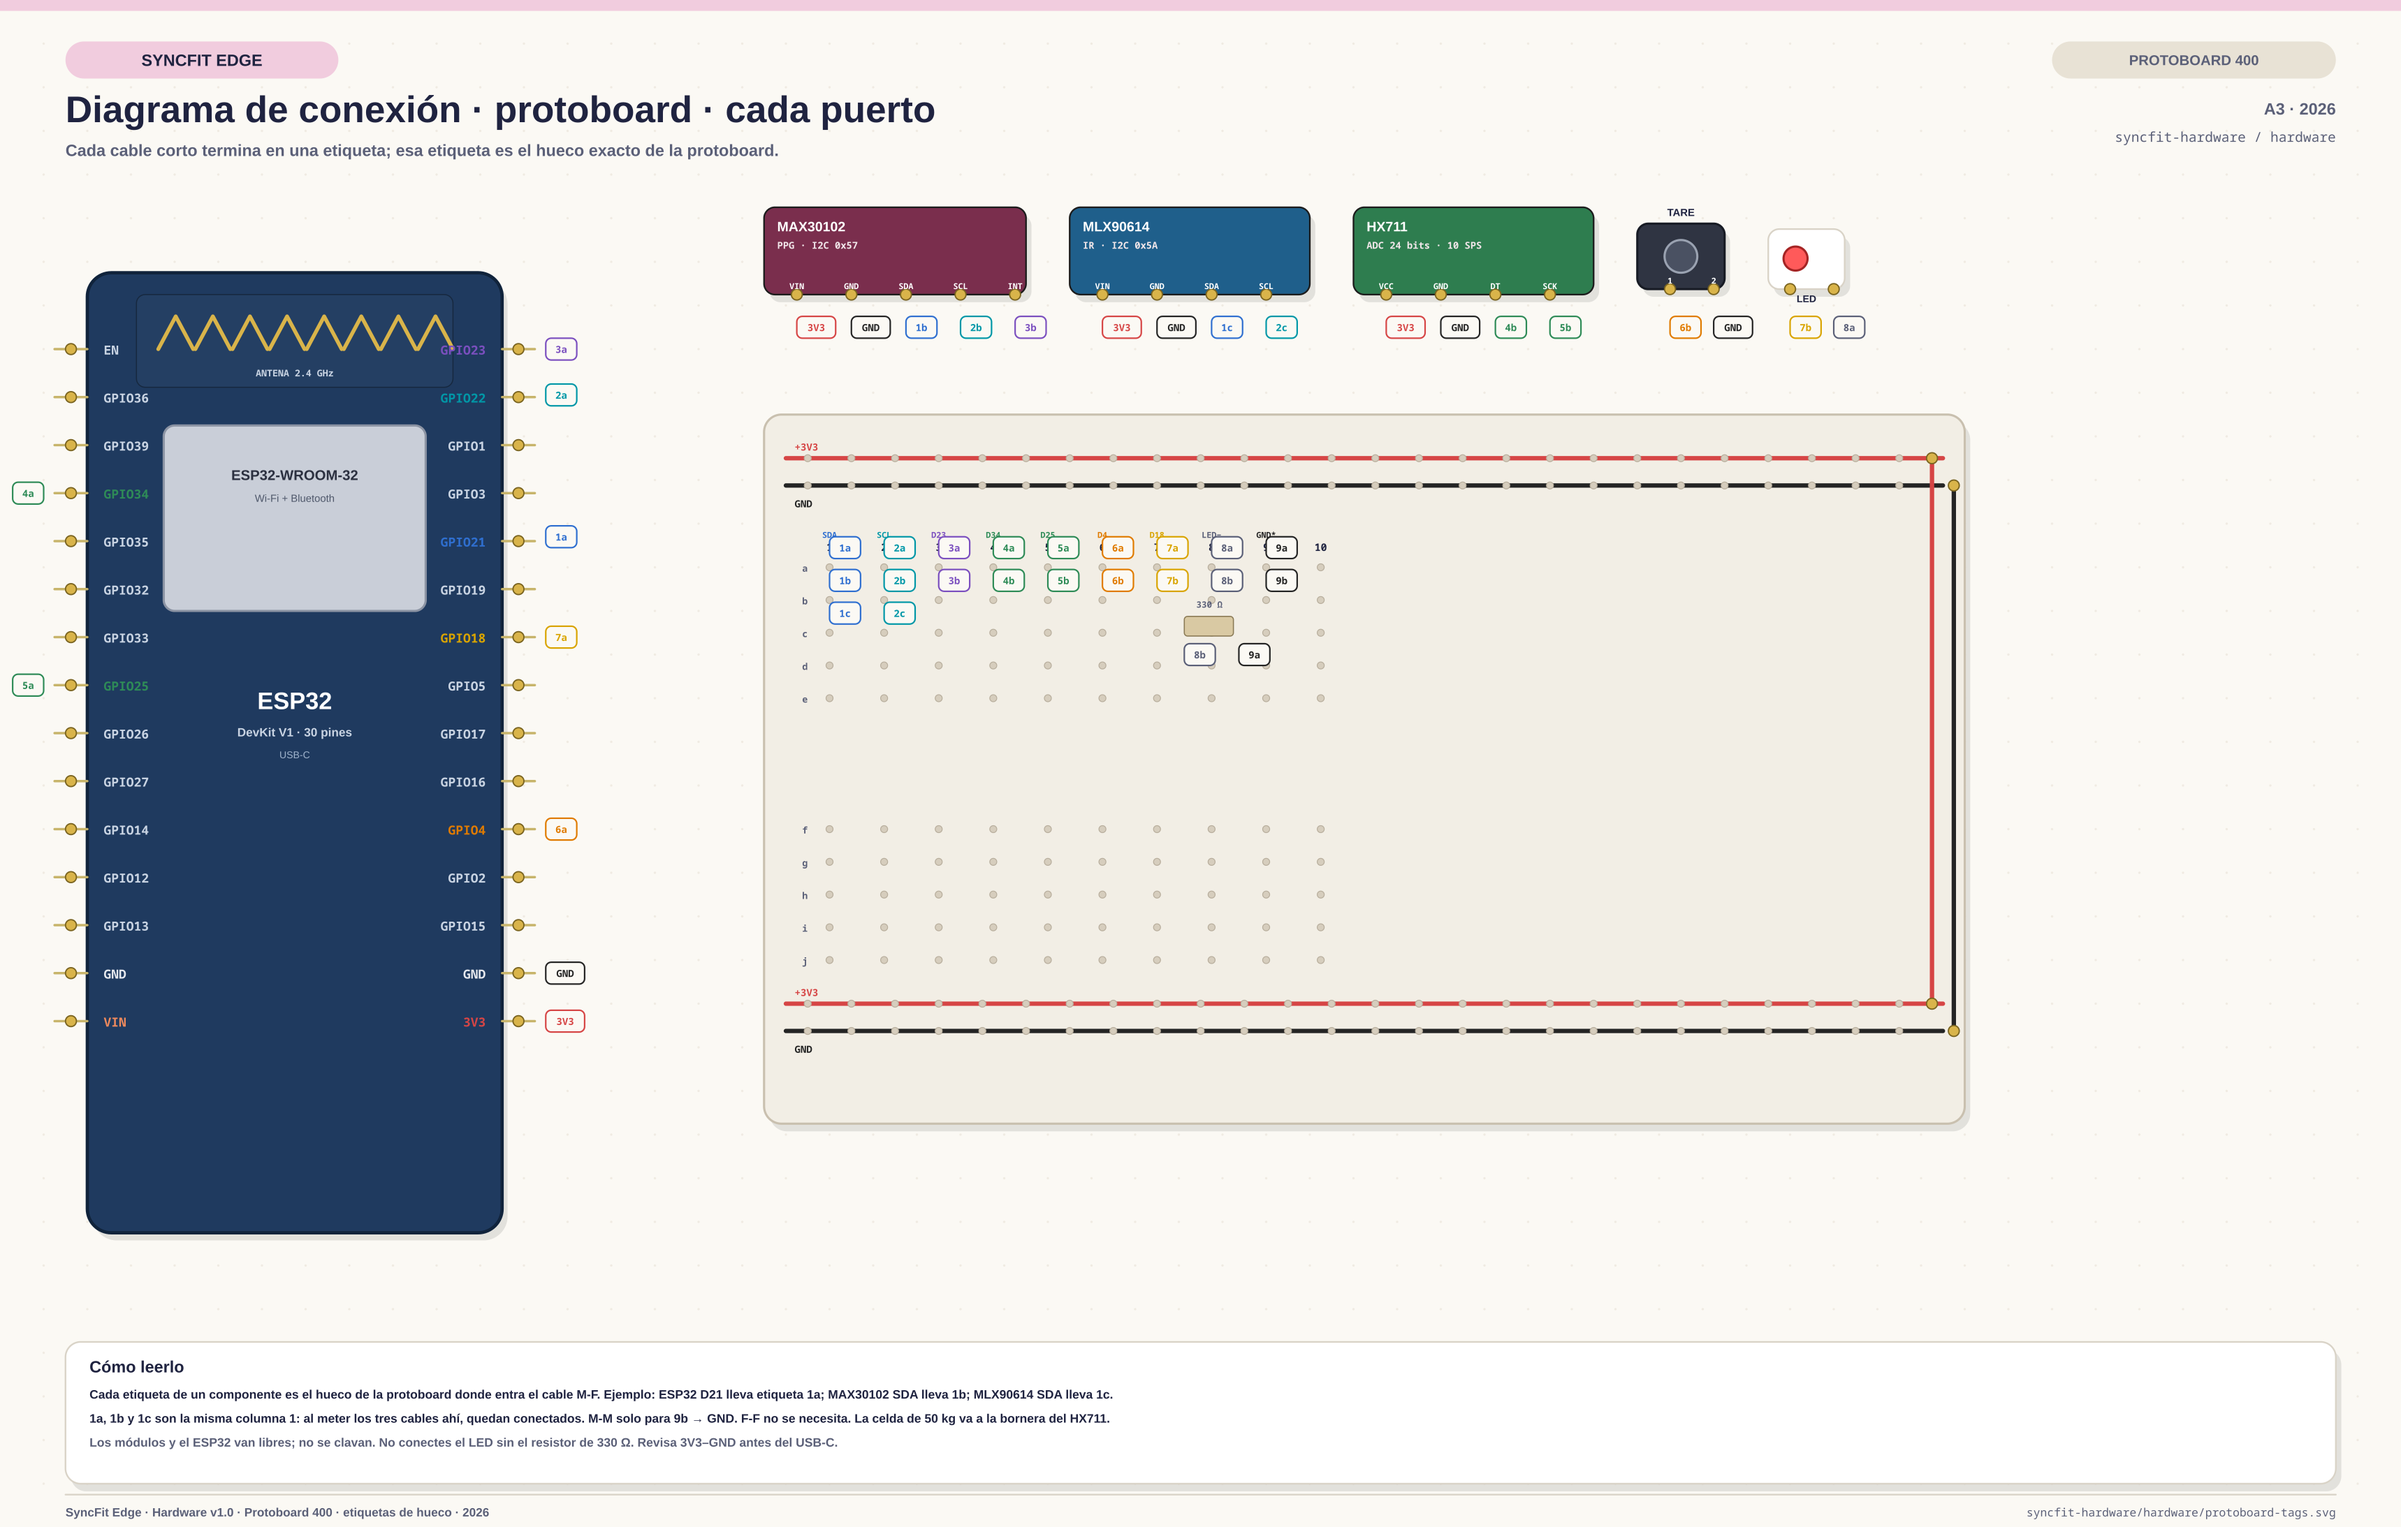
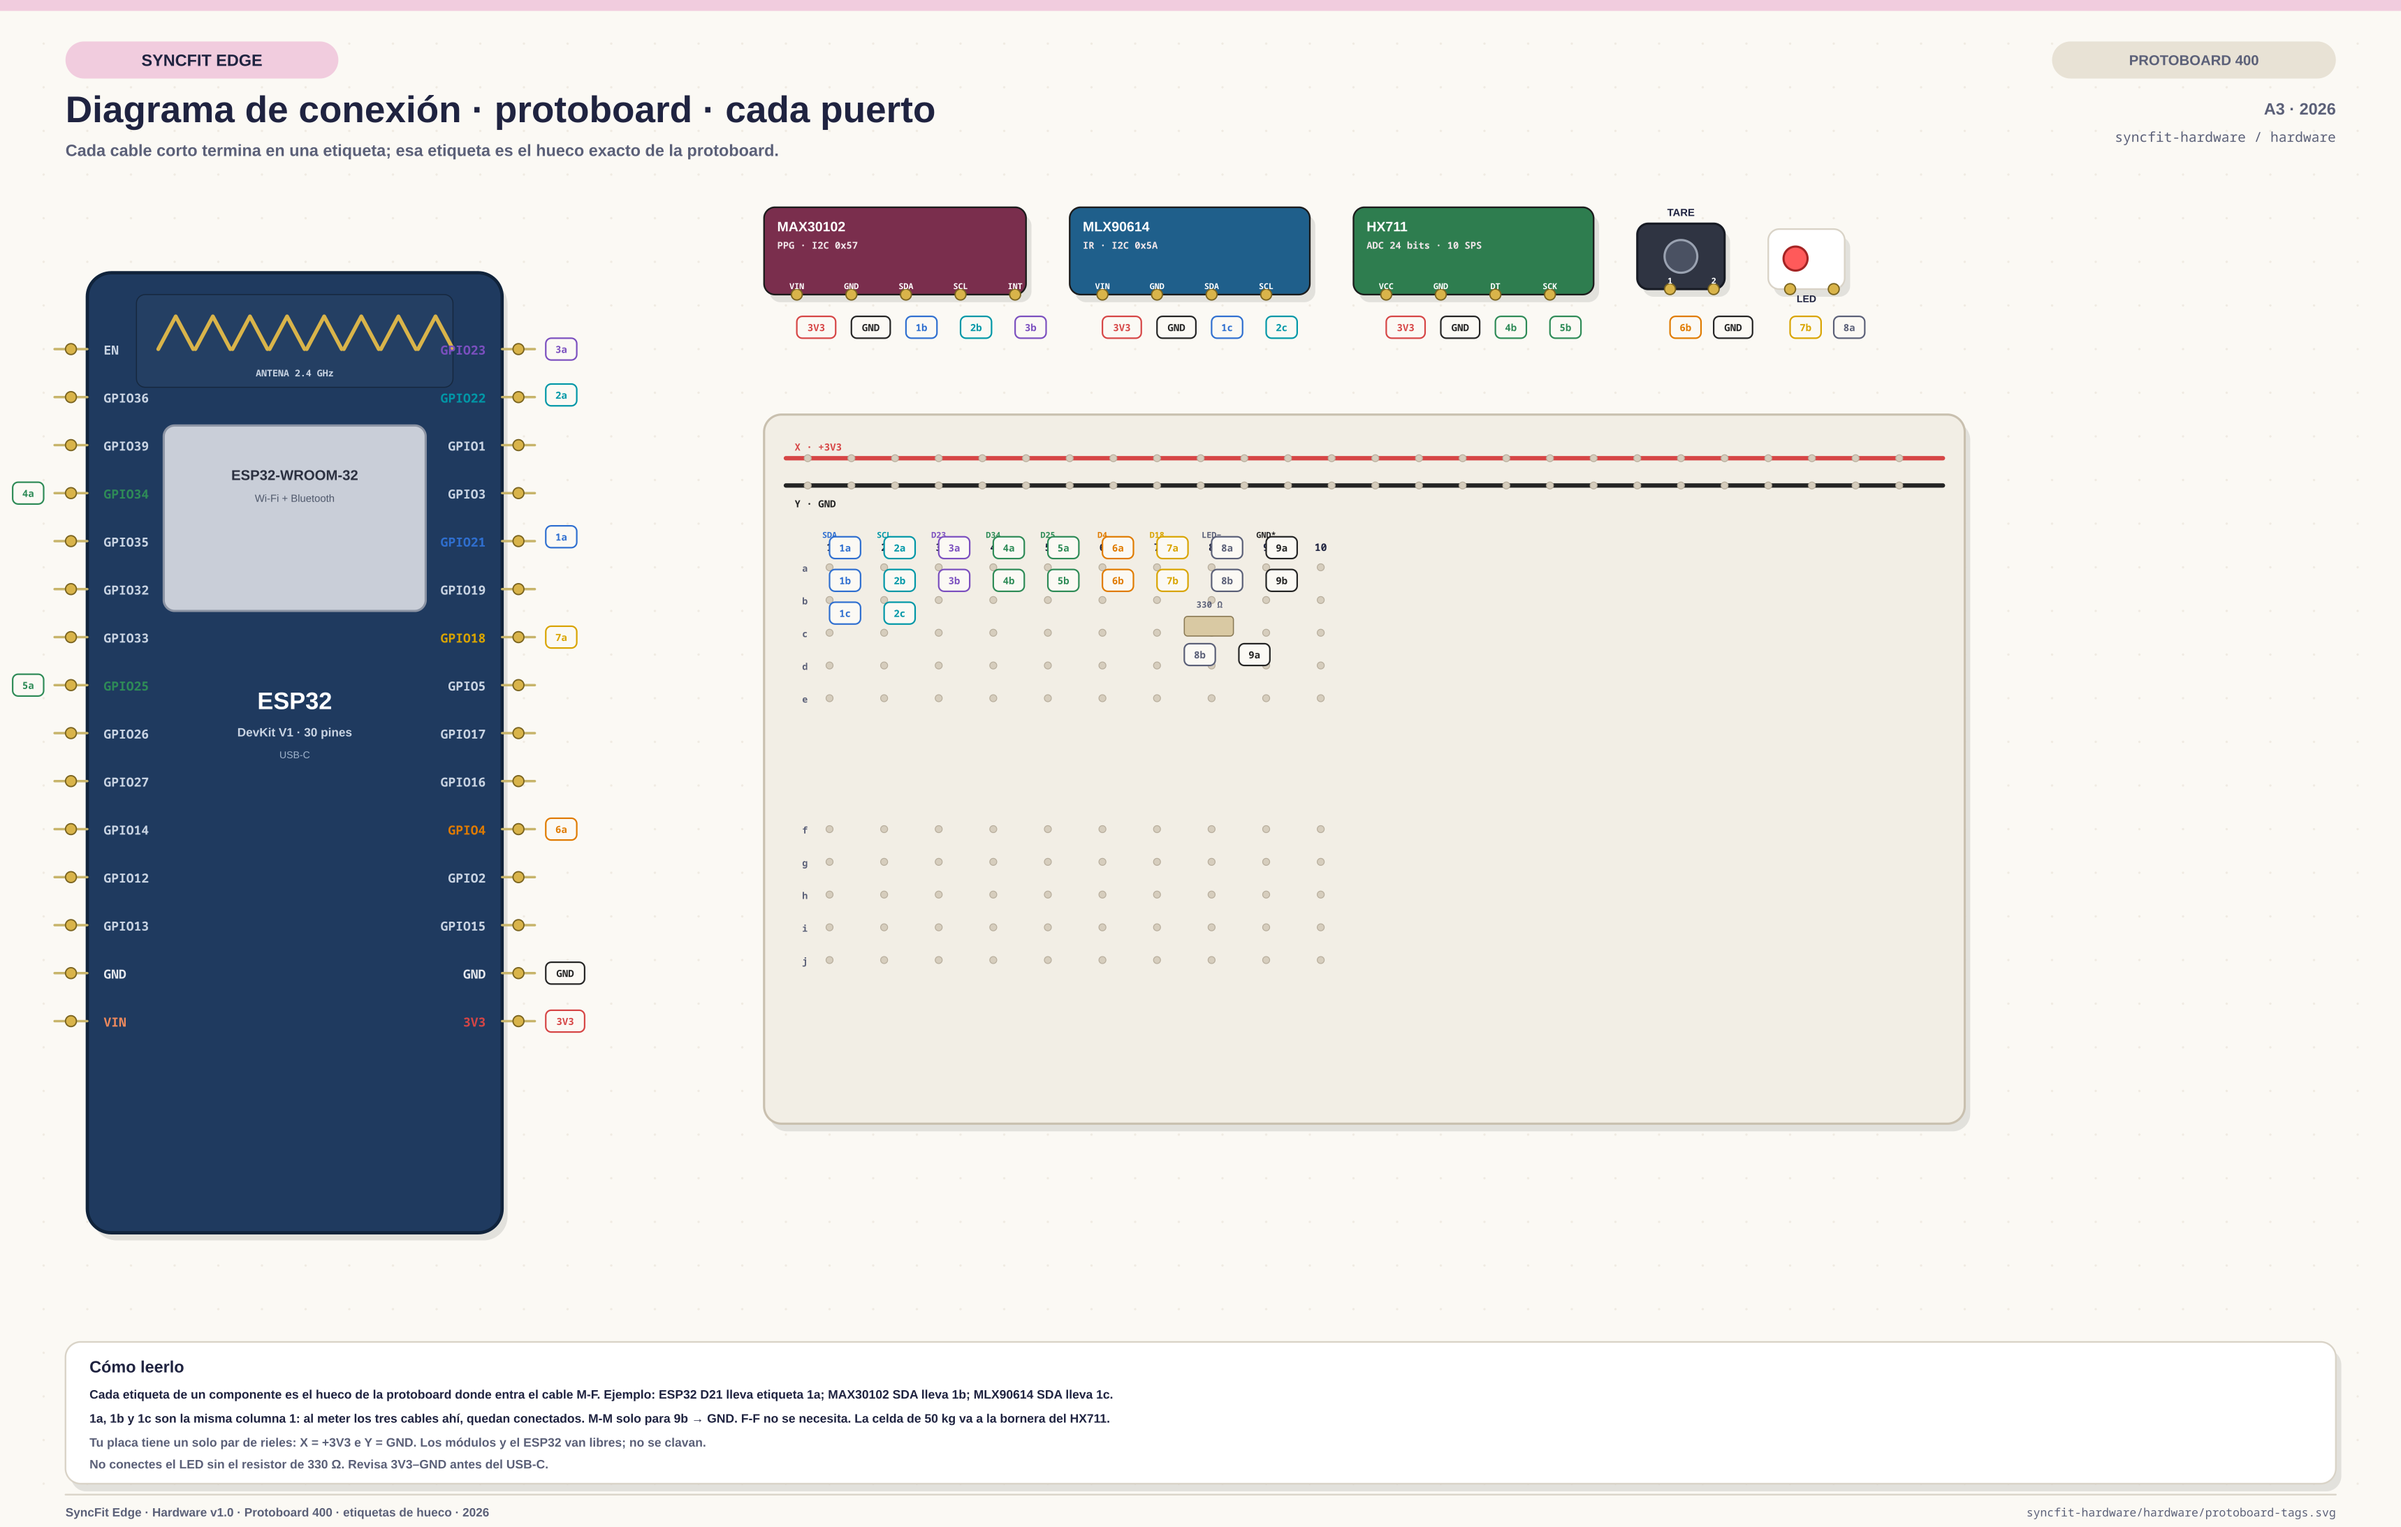
docs: adapt protoboard guide to X/Y power rails
The user's 400-point board has only one pair of power rails, X and Y. X is +3V3 and Y is GND; the tag diagram now shows only that pair.

Changed region(s): [[0.3113, 0.6529, 0.8094, 0.684], [0.0311, 0.9328, 0.3113, 0.9639]]

diff --git a/hardware/connection-map.md b/hardware/connection-map.md
@@ -26,9 +26,9 @@ That is why this map uses **one column per signal**:
 | **6** | `D4 / TARE` | ESP32 `D4` + button leg 1 |
 | **7** | `D18 / LED` | ESP32 `D18` + LED anode |
 | **8** | `LED−` | LED cathode + 330 Ω leg 1 |
-| **9** | `GND*` | 330 Ω leg 2 → M-M to the black `GND` rail |
-| **Red rail** | `+3V3` | ESP32 `3V3` + all module `VIN/VCC` |
-| **Black rail** | `GND` | ESP32 `GND` + all module `GND` + button leg 2 |
+| **9** | `GND*` | 330 Ω leg 2 → M-M to the `Y` rail (`GND`) |
+| **X rail** | `+3V3` | ESP32 `3V3` + all module `VIN/VCC` |
+| **Y rail** | `GND` | ESP32 `GND` + all module `GND` + button leg 2 |
 
 ### Exact hole assignment
 
@@ -57,7 +57,7 @@ above the center channel.
 | `8a` | LED cathode (−, short leg) | M-F or direct |
 | `8b` | 330 Ω leg 1 | direct |
 | `9a` | 330 Ω leg 2 | direct |
-| `9b` | black `GND` rail | M-M |
+| `9b` | `Y` rail (`GND`) | M-M |
 
 Use different holes of the same column for multiple wires. For example, column 1
 has three connections: put the ESP32 wire in hole `1a`, the MAX30102 wire in
@@ -65,7 +65,7 @@ has three connections: put the ESP32 wire in hole `1a`, the MAX30102 wire in
 breadboard; no M-M jumper is needed for that column.
 
 `GND*` in column 9 is the return from the 330 Ω resistor. Link column 9 to the
-black `GND` rail with an **M-M** jumper.
+`Y` rail (`GND`) with an **M-M** jumper.
 
 ## 2. ESP32 connections
 
@@ -74,8 +74,8 @@ into the breadboard.
 
 | ESP32 pin | Physical side | Connect to | Cable |
 |---|---|---|---|
-| `3V3` (pin 30) | right, bottom | red `+3V3` rail | M-F |
-| `GND` (pin 29) | right, bottom | black `GND` rail | M-F |
+| `3V3` (pin 30) | right, bottom | `X` rail (`+3V3`) | M-F |
+| `GND` (pin 29) | right, bottom | `Y` rail (`GND`) | M-F |
 | `D21` (pin 20) | right | breadboard **column 1** (`SDA`) | M-F |
 | `D22` (pin 17) | right | breadboard **column 2** (`SCL`) | M-F |
 | `D23` (pin 16) | right | breadboard **column 3** (`INT`) | M-F |
@@ -89,8 +89,8 @@ into the breadboard.
 
 | MAX30102 pin | Connect to | Cable |
 |---|---|---|
-| `VIN` | red `+3V3` rail | M-F |
-| `GND` | black `GND` rail | M-F |
+| `VIN` | `X` rail (`+3V3`) | M-F |
+| `GND` | `Y` rail (`GND`) | M-F |
 | `SDA` | breadboard **column 1** | M-F |
 | `SCL` | breadboard **column 2** | M-F |
 | `INT` | breadboard **column 3** | M-F |
@@ -99,8 +99,8 @@ into the breadboard.
 
 | MLX90614 pin | Connect to | Cable |
 |---|---|---|
-| `VIN` | red `+3V3` rail | M-F |
-| `GND` | black `GND` rail | M-F |
+| `VIN` | `X` rail (`+3V3`) | M-F |
+| `GND` | `Y` rail (`GND`) | M-F |
 | `SDA` | breadboard **column 1** | M-F |
 | `SCL` | breadboard **column 2** | M-F |
 
@@ -108,8 +108,8 @@ into the breadboard.
 
 | HX711 pin | Connect to | Cable |
 |---|---|---|
-| `VCC` | red `+3V3` rail | M-F |
-| `GND` | black `GND` rail | M-F |
+| `VCC` | `X` rail (`+3V3`) | M-F |
+| `GND` | `Y` rail (`GND`) | M-F |
 | `DT` | breadboard **column 4** | M-F |
 | `SCK` | breadboard **column 5** | M-F |
 
@@ -121,10 +121,10 @@ use **diagonal legs** so the button is normally open.
 | Button leg | Connect to | Cable |
 |---|---|---|
 | leg 1 (one side) | breadboard **column 6** | M-F |
-| leg 2 (diagonal) | black `GND` rail | M-F |
+| leg 2 (diagonal) | `Y` rail (`GND`) | M-F |
 
 If the button is plugged into the breadboard, put leg 1 in column 6 and leg 2 in
-a free hole, then use an **M-M** jumper from that hole to the black rail.
+a free hole, then use an **M-M** jumper from that hole to the Y rail (GND).
 
 ## 7. LED + 330 Ω
 
@@ -137,7 +137,7 @@ The **long leg** of the LED is the anode (+); the **short leg** is the cathode
 | LED cathode (short) | breadboard **column 8** | M-F or direct into the board |
 | 330 Ω leg 1 | breadboard **column 8** | direct into the board |
 | 330 Ω leg 2 | breadboard **column 9** | direct into the board |
-| Column 9 | black `GND` rail | **M-M** |
+| Column 9 | `Y` rail (`GND`) | **M-M** |
 
 If the LED and resistor are free, use M-F jumpers for the LED legs and short
 M-M jumpers for the resistor legs. Do not connect the LED directly across 3V3
@@ -180,11 +180,11 @@ No jumpers. Use the HX711 screw terminal and a small screwdriver.
 ## 11. Assembly order
 
 1. Put the ESP32 and the three modules **beside** the breadboard.
-2. Connect ESP32 `3V3` → red rail and `GND` → black rail (M-F).
+2. Connect ESP32 `3V3` → X rail (+3V3) and `GND` → Y rail (GND) (M-F).
 3. Connect ESP32 `D21` → column 1 and `D22` → column 2 (M-F).
 4. Connect MAX30102 `SDA` → column 1, `SCL` → column 2, `INT` → column 3 (M-F).
 5. Connect MLX90614 `SDA` → column 1 and `SCL` → column 2 (M-F).
-6. Connect every module `VIN/VCC` → red rail and `GND` → black rail (M-F).
+6. Connect every module `VIN/VCC` → X rail (+3V3) and `GND` → Y rail (GND) (M-F).
 7. Connect HX711 `DT` → column 4 and `SCK` → column 5 (M-F).
 8. Connect the button to column 6 and GND; connect the LED to column 7 and the
    330 Ω resistor between columns 8 and 9, then column 9 to GND.

diff --git a/hardware/protoboard.md b/hardware/protoboard.md
@@ -4,6 +4,8 @@
 **Assumption:** solderless breadboard and modules with **pre-soldered male headers**.  
 **Recommended breadboard:** **830 points**. A 400-point board only works if the
 sensor modules are left **free** beside it.  
+**Your 400-point board:** one pair of rails, **X = +3V3** and **Y = GND**. The
+red/black rails in the drawings mean X/Y.  
 **Diagram (modules on board, if they fit):** [`protoboard.svg`](protoboard.svg) · [`protoboard.png`](protoboard.png)  
 **Diagram (400-point board as a bus, modules free — recommended):**
 [`protoboard-free.svg`](protoboard-free.svg) · [`protoboard-free.png`](protoboard-free.png)
